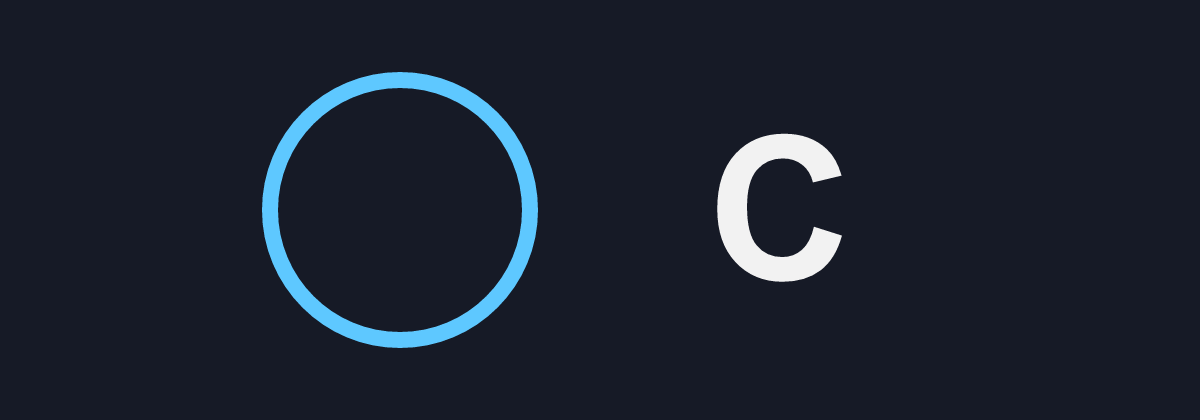
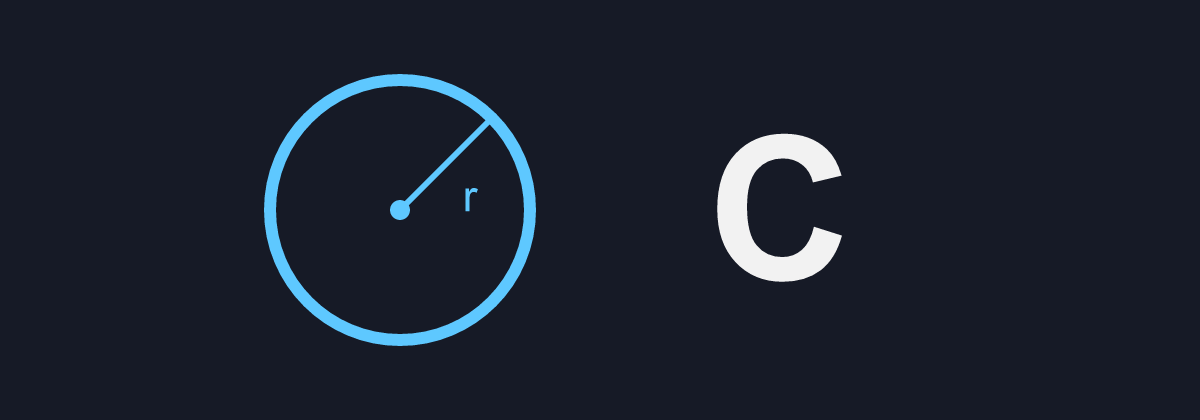
fix(seed): logic quiz review fixes — unambiguous scales, pentagram picture, clearer riddles and chain
The third scales show only «?» on the right pan; the ladder pentagram gets its own picture (60 s);
«зламати, не торкаючись» becomes a single choice; the needle riddle uses «вушко»; the detective chain
is Злочин → Слідство → Суд → Вирок; the circle in rebus r12 has a centre and radius; «Іра» throughout;
softer detective round description and cleaner g08 hint.

Claude-Session: https://claude.ai/code/session_01BJmGPfDvA3k4u2NvWi6gC1

diff --git a/apps/server/scripts/logic-quiz.ts b/apps/server/scripts/logic-quiz.ts
@@ -21,7 +21,7 @@ export type LogicTheme = keyof typeof LOGIC_THEMES;
 
 /** Намальовані картинки: ключ → logic/img/<ключ>.png (1200 px завширшки, темне тло). */
 export const LOGIC_FILES = [
-  'g01', 'g02', 'g03', 'g04', 'g05', 'g06', 'g07', 'g08', 'g09', 'g10', 'g11', 'g12', 'g13', 'g14', 'g15', 'g16', 'g17', 'g18', 'g19', 'g20', 'g21', 'g22',
+  'g01', 'g02', 'g03', 'g04', 'g05', 'g06', 'g07', 'g08', 'g09', 'g10', 'g11', 'g12', 'g13', 'g14', 'g15', 'g16', 'g17', 'g18', 'g19', 'g20', 'g21', 'g22', 'g23',
   'r1', 'r2', 'r3', 'r4', 'r5', 'r7', 'r8', 'r9', 'r10', 'r11', 'r12',
 ] as const;
 
@@ -123,7 +123,7 @@ const content = (img: Img) => {
     // 0 + 6 = 2: вертикальний сірник із «+» стає серединою нуля → 8 − 6 = 2 (єдиний розв’язок, matchMoves).
     t('graph', pic(single('Перекладіть рівно один сірник, щоб рівність стала правильною. Знаки — лише «+», «−» і «=». Що вийде?', ['0 + 2 = 2', '6 − 4 = 2', '8 − 6 = 2', '8 − 0 = 8'], 2, 300, 60), img('g07'))),
     // 0 + 3 = 17: верхній сірник «7» перекладаємо в середину «0» → 8 + 3 = 11 (єдиний розв’язок).
-    t('graph', pic(single('Перекладіть рівно один сірник, щоб рівність стала правильною. Знаки — лише «+», «−» і «=». Що вийде?', ['0 + 9 = 9', '8 + 3 = 11', '6 + 5 = 11', '8 + 9 = 17'], 1, 400, 60), img('g08')), 'Змінюються дві цифри: одна по різні боки від «=»'),
+    t('graph', pic(single('Перекладіть рівно один сірник, щоб рівність стала правильною. Знаки — лише «+», «−» і «=». Що вийде?', ['0 + 9 = 9', '8 + 3 = 11', '6 + 5 = 11', '8 + 9 = 17'], 1, 400, 60), img('g08')), 'Змінюються дві цифри — по одній з кожного боку від «=»'),
     // MAZE: від старту досяжний лише вихід В (reachable).
     t('graph', pic(single('Пройдіть лабіринт від старту. До якого виходу можна дійти?', ABCD, 2, 300, 60), img('g09'))),
     // NETS_ONE_GOOD: А — п’ять у ряд, Б і В мають квадрат 2×2 — не складаються; Г складається (foldsToCube).
@@ -292,7 +292,7 @@ const content = (img: Img) => {
       ),
     ),
     // Пес не в Іри й не в Соні → у Макса; Іра без кота й без пса → папуга; Соні лишається кіт.
-    t('detect', match('Ірина, Максим і Соня мають кота, пса й папугу — кожен по одному. Іра не має кота. Пес живе не в Іри й не в Соні. Хто кого має?', [['Іра', 'Папуга'], ['Максим', 'Пес'], ['Соня', 'Кіт']], 200, 45)),
+    t('detect', match('Іра, Максим і Соня мають кота, пса й папугу — кожен по одному. Іра не має кота. Пес живе не в Іри й не в Соні. Хто кого має?', [['Іра', 'Папуга'], ['Максим', 'Пес'], ['Соня', 'Кіт']], 200, 45)),
     // Ніна < Ліна < Марко за часом, Олег останній: Ніна, Ліна, Марко, Олег.
     t('detect', order('Забіг. Ліна фінішувала раніше за Марка, але пізніше за Ніну. Олег прибіг останнім. Розставте від першого до останнього', ['Ніна', 'Ліна', 'Марко', 'Олег'], 200, 45, ['Перший', 'Останній'])),
     // У квітні 30 днів — «31 квітня» не буває.
@@ -338,8 +338,8 @@ const content = (img: Img) => {
     t('detect', single('Шерлок помітив: у гостя засмагла лише ліва рука, а права бліда. Що найімовірніше?', ['Гість часто їздить за кермом авто', 'Гість грає на скрипці', 'Гість щойно з пляжу', 'Гість — лівша'], 0, 200, 30)),
     // Фотограф: знімок проявили, промили у воді й повісили сушитися (плівкова фотографія).
     t('detect', textQ('Жінка навела на чоловіка об’єктив і клацнула, потім занурила його у воду й повісила сушитися. Ніхто не постраждав. Хто вона за фахом?', ['Фотограф', 'Фотографиня', 'Фотографка', 'Фотографістка', 'Фотохудожниця', 'Фотохудожник'], 200, 40), 'Згадайте плівкові фотоапарати'),
-    // Злочин → свідок → допит → алібі → доказ → суд → вирок: кроки слідства.
-    t('detect', chain('Ланцюжок слідства: що за чим іде', ['Злочин', 'Свідок', 'Допит', 'Алібі', 'Доказ', 'Суд', 'Вирок'], 5, 300, 60), 'Хто бачив, що його розпитують, що він каже на свій захист…'),
+    // Злочин → слідство → суд → вирок: шлях справи від події до покарання.
+    t('detect', chain('Ланцюжок справи: що за чим іде', ['Злочин', 'Слідство', 'Суд', 'Вирок'], 10, 300, 60), 'Спершу справу розслідують, потім розглядають, а наприкінці оголошують рішення'),
     // Фора злодія: 6 км/год × 0,5 год = 3 км; зближення 10 − 6 = 4 км/год → 0,75 год = 45 хв.
     t(
       'detect',
@@ -385,10 +385,10 @@ const content = (img: Img) => {
       cells: [
         // Ім’я — його вживають інші частіше, ніж власник.
         cell(t('riddle', textQ('Що належить вам, але інші користуються ним частіше за вас?', ['Ім’я', "Ім'я", 'Імя', 'Моє ім’я', "Моє ім'я", 'Імʼя'], 100, 30))),
-        // Обіцянку (слово) можна порушити, тишу — урвати, не торкаючись.
-        cell(t('riddle', textQ('Що можна зламати, навіть не торкаючись до нього?', ['Обіцянку', 'Обіцянка', 'Слово', 'Тишу', 'Тиша', 'Мовчання', 'Клятву', 'Присягу', 'Серце', 'Рекорд'], 200, 30))),
-        // У голки є вушко — «око», але вона нічого не бачить.
-        cell(t('riddle', single('Має одне око, але нічого не бачить. Що це?', ['Ложка', 'Голка', 'Ключ', 'Ґудзик'], 1, 300, 20))),
+        // Обіцянку можна порушити («зламати»), не торкаючись; скло, олівець і тарілку треба торкнути.
+        cell(t('riddle', single('Що можна зламати, навіть не торкаючись до нього?', ['Скло', 'Олівець', 'Обіцянку', 'Тарілку'], 2, 200, 20))),
+        // У голки є вушко, але вона нічого не чує.
+        cell(t('riddle', single('Має вушко, а не чує. Що це?', ['Ложка', 'Голка', 'Ключ', 'Ґудзик'], 1, 300, 20))),
         // Сходи йдуть угору й униз, а самі стоять.
         cell(t('riddle', textQ('Ідуть то вгору, то вниз, а самі стоять на місці. Що це?', ['Сходи', 'Драбина', 'Сходинки'], 400, 30)), 'none', { answerMode: 'voice' }),
         // Низенький чоловік дістає рукою лише до кнопки 7-го поверху, а в дощ — парасолькою до 10-ї.
@@ -571,7 +571,7 @@ const content = (img: Img) => {
     // 40 + x = 3(10 + x) → x = 5.
     t('logic', single('Батькові 40 років, синові 10. Через скільки років батько буде втричі старший за сина?', ['2', '5', '10', '15'], 1, 0, 45)),
     // Пентаграма: 5 малих трикутників-вершин і 5 більших (вершина + сусідня частина) = 10 (countTriangles(PENTAGRAM)).
-    t('logic', single('Скільки трикутників у п’ятикутній зірці, накресленій п’ятьма прямими лініями без відриву олівця?', ['5', '8', '10', '15'], 2, 0, 45)),
+    t('logic', pic(single('Скільки трикутників у цій п’ятикутній зірці?', ['5', '8', '10', '15'], 2, 0, 60), img('g23'))),
     // Факторіали: 120 × 6 = 720.
     t('logic', single('Продовжте ряд: 1, 2, 6, 24, 120, …?', ['240', '600', '720', '1200'], 2, 0, 45)),
     // Монета не має пам’яті.
@@ -722,7 +722,7 @@ export const logicQuiz = (img: Img): Quiz => {
         type: 'classic',
         title: 'Детективні справи',
         description:
-          'Дванадцять коротких справ. Хтось бреше, хтось плутає дати, а хтось має фальшиве алібі. Усе потрібне для розгадки є в тексті, сторонні знання не знадобляться. На складні справи дається до хвилини. Частково правильна відповідь приносить половину балів, а за три правильні поспіль — бонус 50 %.',
+          'Дванадцять коротких справ. Хтось бреше, хтось плутає дати, а хтось має фальшиве алібі. Здебільшого вистачить уважності й здорового глузду. На складні справи дається до хвилини. Частково правильна відповідь приносить половину балів, а за три правильні поспіль — бонус 50 %.',
         speedBonus: false,
         shuffleOptions: true,
         rules: rules({ partial: 50, streak: { length: 3, bonus: { kind: 'percent', value: 50 } } }),

diff --git a/apps/server/scripts/logic/figures.ts b/apps/server/scripts/logic/figures.ts
@@ -463,7 +463,7 @@ function scalesSvg(): string {
     800,
     scale(300, 230, row('ccc'), row('s')) +
       scale(900, 230, row('sc'), row('t')) +
-      scale(600, 600, row('tt'), `${row('q')}<g transform="translate(70,0)">${circle(0, 0, 27, YEL)}</g>`) +
+      scale(600, 600, row('tt'), row('q')) +
       line([[60, 410], [1140, 410]], '#2a3045', 4),
   );
 }
@@ -623,7 +623,8 @@ const REBUS_SVG: Record<string, () => string> = {
   // «МАКЕТА» з підписом «М = Р».
   r11: () => svg(460, big(600, 260, 'МАКЕТА', 170) + text(600, 80, 'М = Р', 80, YEL)),
   // Коло (малюнок) + «С».
-  r12: () => svg(420, circle(400, 210, 130, 'none', CYAN, 16) + big(780, 210, 'С', 200)),
+  // Коло намальоване як геометрична фігура: центр і радіус, щоб не читалося як літера «О».
+  r12: () => svg(420, circle(400, 210, 130, 'none', CYAN, 12) + circle(400, 210, 10, CYAN) + line([[400, 210], [492, 118]], CYAN, 6) + text(470, 196, 'r', 44, CYAN, 'middle', 'normal') + big(780, 210, 'С', 200)),
 };
 
 /** Ключ картинки → SVG. Ключі нейтральні: g01…, r1…; відповіді в назвах немає. */
@@ -650,5 +651,6 @@ export const FIGURES: Record<string, () => string> = {
   g20: oddSvg,
   g21: clocksSvg,
   g22: treasureSvg,
+  g23: () => figure(PENTAGRAM),
   ...REBUS_SVG,
 };

diff --git a/apps/server/scripts/logic/check.ts b/apps/server/scripts/logic/check.ts
@@ -256,7 +256,7 @@ expectIndex(byKey('g20'), only(F.ODD.figures.map(([s, d]) => s !== d)), 'g20 odd
 
 // Пентаграма в «Мільйонері».
 {
-  const q = byText('п’ятикутній зірці');
+  const q = byKey('g23');
   expectIndex(q, only(optionTexts(q).map((o) => Number(o) === S.countTriangles(F.PENTAGRAM))), 'pentagram');
 }
 
